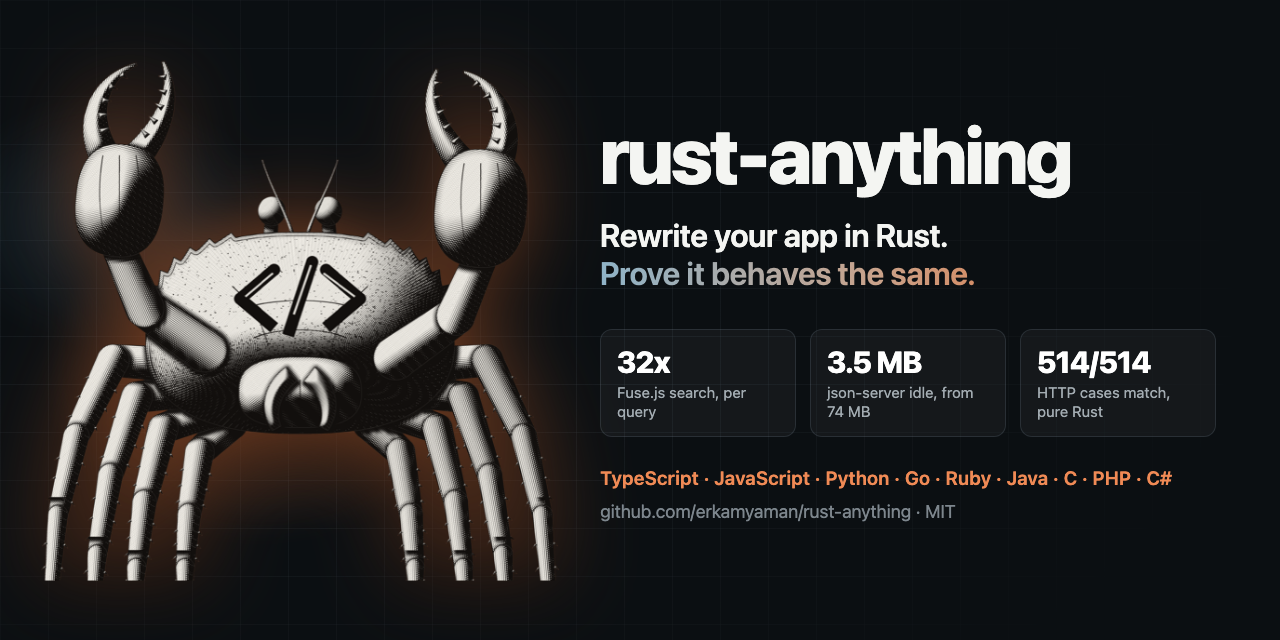
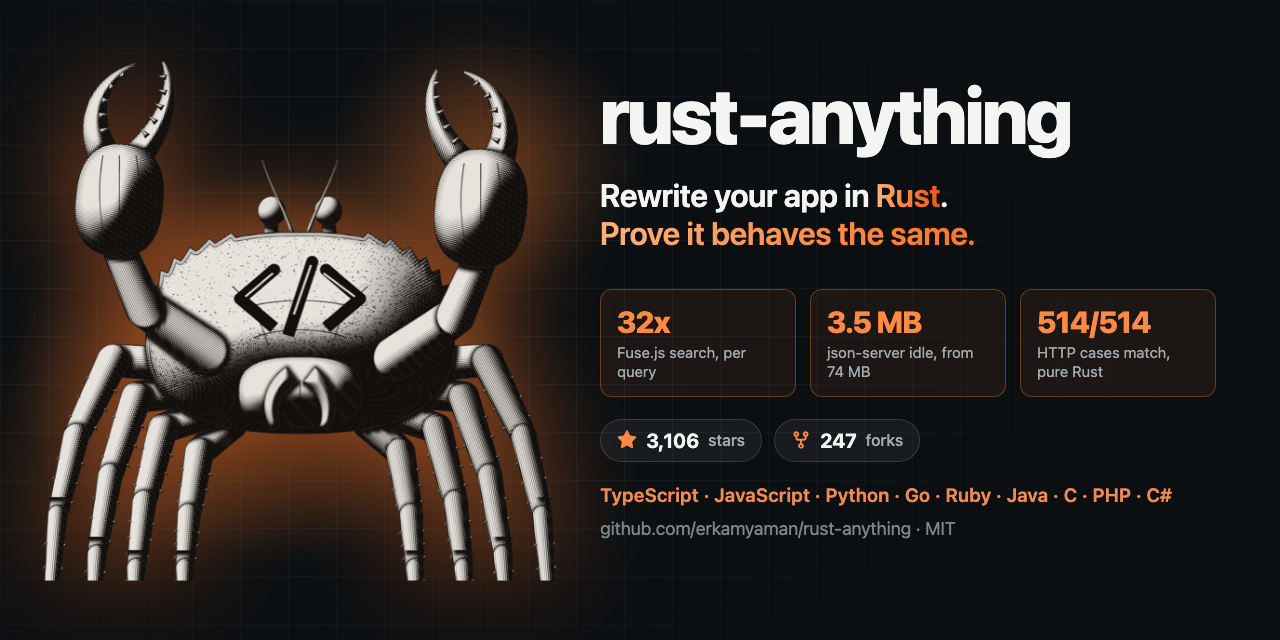
Social preview: more orange, live star and fork counts
scripts/social-preview.sh fills the current counts from gh into
docs/assets/social.html and renders social-preview.png with headless Chrome.

Changed region(s): [[0.0312, 0.125, 0.9375, 0.8438]]

diff --git a/docs/assets/social.html b/docs/assets/social.html
@@ -1,5 +1,5 @@
 <!doctype html>
-<!-- GitHub social preview (1280x640, upload in Settings > Social preview). Render: Chrome --headless --screenshot --window-size=1280,640. No version or star badges, so it never goes stale. -->
+<!-- GitHub social preview (1280x640, upload in Settings > Social preview). Render with `sh scripts/social-preview.sh`, which fills in the current star and fork counts. -->
 <html lang="en"><head><meta charset="utf-8"><title>rust-anything social preview</title>
 <style>
   * { box-sizing: border-box; margin: 0; }
@@ -21,28 +21,34 @@
   .glow {
     position: absolute; left: -120px; top: 40px; width: 760px; height: 600px;
     background:
-      radial-gradient(40% 40% at 50% 55%, rgb(224 118 63 / 0.42), transparent 70%),
-      radial-gradient(30% 30% at 30% 30%, rgb(70 120 150 / 0.25), transparent 70%);
+      radial-gradient(45% 45% at 50% 55%, rgb(232 110 40 / 0.62), transparent 72%),
+      radial-gradient(30% 30% at 80% 20%, rgb(255 140 60 / 0.22), transparent 70%);
     filter: blur(8px);
   }
   .crab {
     position: absolute; left: 40px; top: 50%; transform: translateY(-50%);
     width: 520px; height: auto;
-    filter: drop-shadow(0 0 40px rgb(224 118 63 / 0.45)) drop-shadow(0 20px 30px rgb(0 0 0 / 0.6));
+    filter: drop-shadow(0 0 48px rgb(240 120 50 / 0.65)) drop-shadow(0 20px 30px rgb(0 0 0 / 0.6));
   }
-  .text { position: absolute; left: 600px; right: 64px; top: 116px; }
+  .text { position: absolute; left: 600px; right: 64px; top: 76px; }
   h1 { font-size: 78px; font-weight: 800; letter-spacing: -2.5px; line-height: 1; }
   .tag { margin-top: 22px; font-size: 32px; font-weight: 600; line-height: 1.2; letter-spacing: -0.4px; }
   .tag span {
     display: block;
-    background: linear-gradient(90deg, #8fb3c7 0%, #c9a28a 45%, #e0763f 80%);
+    background: linear-gradient(90deg, #ffb27a 0%, #ff7a2f 55%, #e8561a 100%);
     -webkit-background-clip: text; background-clip: text; color: transparent;
   }
   .stats { display: flex; gap: 14px; margin-top: 36px; }
-  .stat { flex: 1; padding: 14px 16px; border-radius: 12px; background: rgb(255 255 255 / 0.04); border: 1px solid rgb(150 170 185 / 0.16); }
-  .stat b { display: block; font-size: 30px; font-weight: 800; letter-spacing: -0.8px; color: #fff; }
+  .stat { flex: 1; padding: 14px 16px; border-radius: 12px; background: rgb(255 120 50 / 0.07); border: 1px solid rgb(255 130 60 / 0.35); }
+  .stat b { display: block; font-size: 30px; font-weight: 800; letter-spacing: -0.8px; color: #ff8a45; }
   .stat small { display: block; margin-top: 4px; font-size: 15px; line-height: 1.3; color: #a3acb2; }
-  .langs { margin-top: 30px; font-size: 19px; color: #f08a55; font-weight: 600; letter-spacing: 0.2px; }
+  .rust { color: #ff7a2f; }
+  .gh { display: flex; gap: 12px; margin-top: 22px; }
+  .pill { display: inline-flex; align-items: center; gap: 9px; padding: 9px 16px; border-radius: 999px;
+          background: rgb(255 255 255 / 0.05); border: 1px solid rgb(255 255 255 / 0.14); font-size: 20px; font-weight: 700; }
+  .pill svg { width: 20px; height: 20px; fill: #ff8a45; }
+  .pill small { font-size: 16px; font-weight: 500; color: #a3acb2; }
+  .langs { margin-top: 22px; font-size: 19px; color: #f08a55; font-weight: 600; letter-spacing: 0.2px; }
   .link { margin-top: 12px; font-size: 18px; color: #7d868d; }
 </style></head>
 <body>
@@ -51,11 +57,15 @@
   <img class="crab" src="crab.png" alt="">
   <div class="text">
     <h1>rust-anything</h1>
-    <p class="tag">Rewrite your app in Rust.<span>Prove it behaves the same.</span></p>
+    <p class="tag">Rewrite your app in <span class="rust" style="display:inline">Rust</span>.<span>Prove it behaves the same.</span></p>
     <div class="stats">
       <div class="stat"><b>32x</b><small>Fuse.js search, per query</small></div>
       <div class="stat"><b>3.5 MB</b><small>json-server idle, from 74 MB</small></div>
       <div class="stat"><b>514/514</b><small>HTTP cases match, pure Rust</small></div>
+    </div>
+    <div class="gh">
+      <span class="pill"><svg viewBox="0 0 16 16"><path d="M8 .25a.75.75 0 0 1 .673.418l1.882 3.815 4.21.612a.75.75 0 0 1 .416 1.279l-3.046 2.97.719 4.192a.751.751 0 0 1-1.088.791L8 12.347l-3.766 1.98a.75.75 0 0 1-1.088-.79l.72-4.194L.818 6.374a.75.75 0 0 1 .416-1.28l4.21-.611L7.327.668A.75.75 0 0 1 8 .25Z"/></svg>{{stars}} <small>stars</small></span>
+      <span class="pill"><svg viewBox="0 0 16 16"><path d="M5 5.372v.878c0 .414.336.75.75.75h4.5a.75.75 0 0 0 .75-.75v-.878a2.25 2.25 0 1 1 1.5 0v.878a2.25 2.25 0 0 1-2.25 2.25h-1.5v2.128a2.251 2.251 0 1 1-1.5 0V8.5h-1.5A2.25 2.25 0 0 1 3.5 6.25v-.878a2.25 2.25 0 1 1 1.5 0ZM5 3.25a.75.75 0 1 0-1.5 0 .75.75 0 0 0 1.5 0Zm6.75.75a.75.75 0 1 0 0-1.5.75.75 0 0 0 0 1.5Zm-3 8.75a.75.75 0 1 0-1.5 0 .75.75 0 0 0 1.5 0Z"/></svg>{{forks}} <small>forks</small></span>
     </div>
     <p class="langs">TypeScript · JavaScript · Python · Go · Ruby · Java · C · PHP · C#</p>
     <p class="link">github.com/erkamyaman/rust-anything · MIT</p>
